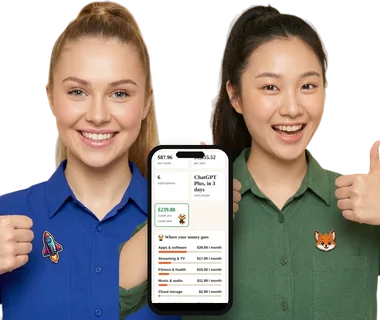
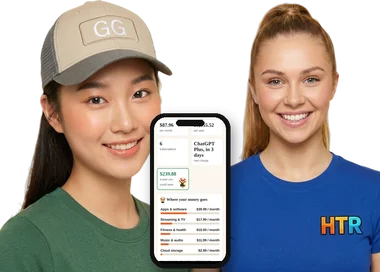
Join picture: head-and-shoulders of Hana (GG) and Lexi (HTR) with the tracker, no cut-off hands
Claude-Session: https://claude.ai/code/session_01FovMb3eCEbxbzQfRquWLnW

diff --git a/index.html b/index.html
@@ -829,7 +829,7 @@ footer p { margin: 0 0 6px; max-width: 62ch; }
     },
     join: {
       title: "Join free + get our Free Subscription Tracker",
-      image: { src: "img/join-girls.webp", w: 300, h: 253 },
+      image: { src: "img/join-girls.webp", w: 300, h: 215 },
       lead: "Our free app newsletter: the apps and tricks that save you time and money, straight to your inbox. Every subscriber gets our free Subscription Tracker.",
       bullets: [
         "Useful app and AI tips you can use the same day.",
